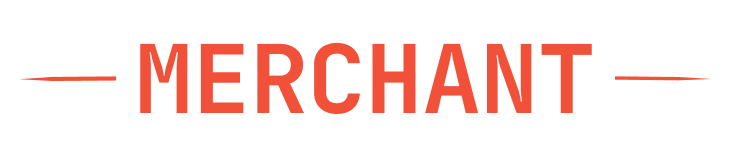
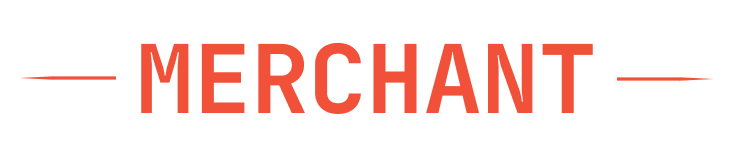
fix image alignment

diff --git a/Example/Merchant/AppDelegate.swift b/Example/Merchant/AppDelegate.swift
@@ -14,7 +14,7 @@ class AppDelegate: UIResponder, UIApplicationDelegate {
     var window: UIWindow?
 
 
-    func application(_ application: UIApplication, didFinishLaunchingWithOptions launchOptions: [UIApplicationLaunchOptionsKey: Any]?) -> Bool {
+    func application(_ application: UIApplication, didFinishLaunchingWithOptions launchOptions: [UIApplication.LaunchOptionsKey: Any]?) -> Bool {
         // Override point for customization after application launch.
         return true
     }

diff --git a/Tests/HTTPRequestMethodTests/LoggerTests.swift b/Tests/HTTPRequestMethodTests/LoggerTests.swift
@@ -149,7 +149,7 @@ extension String {
 
 extension XCTestCase {
     func makeRequest(logLevel: LogLevel, logResponse: @escaping (_ message: [String]) -> Void) {
-        let logger = MockRetroSwiftLogger(logLevel)
+        let logger = MockMerchantLogger(logLevel)
         stubPostAlamofire(mockTestURL: baseURL,
                           method: .post,
                           data: userMock,

diff --git a/Tests/Infrastructure/MockMerchantLogger.swift b/Tests/Infrastructure/MockMerchantLogger.swift
@@ -1,7 +1,7 @@
 import Foundation
 @testable import Merchant
 
-class MockRetroSwiftLogger: MerchantLogger {
+class MockMerchantLogger: MerchantLogger {
     
     convenience init(_ logLevel: LogLevel) {
         self.init(level: logLevel, loggerOutput: MockSTDOutLogger())

diff --git a/Example/Tests/Tests.swift b/Example/Tests/Tests.swift
@@ -1,5 +1,5 @@
 import XCTest
-import Merchant
+//import Merchant
 
 class Tests: XCTestCase {
     
